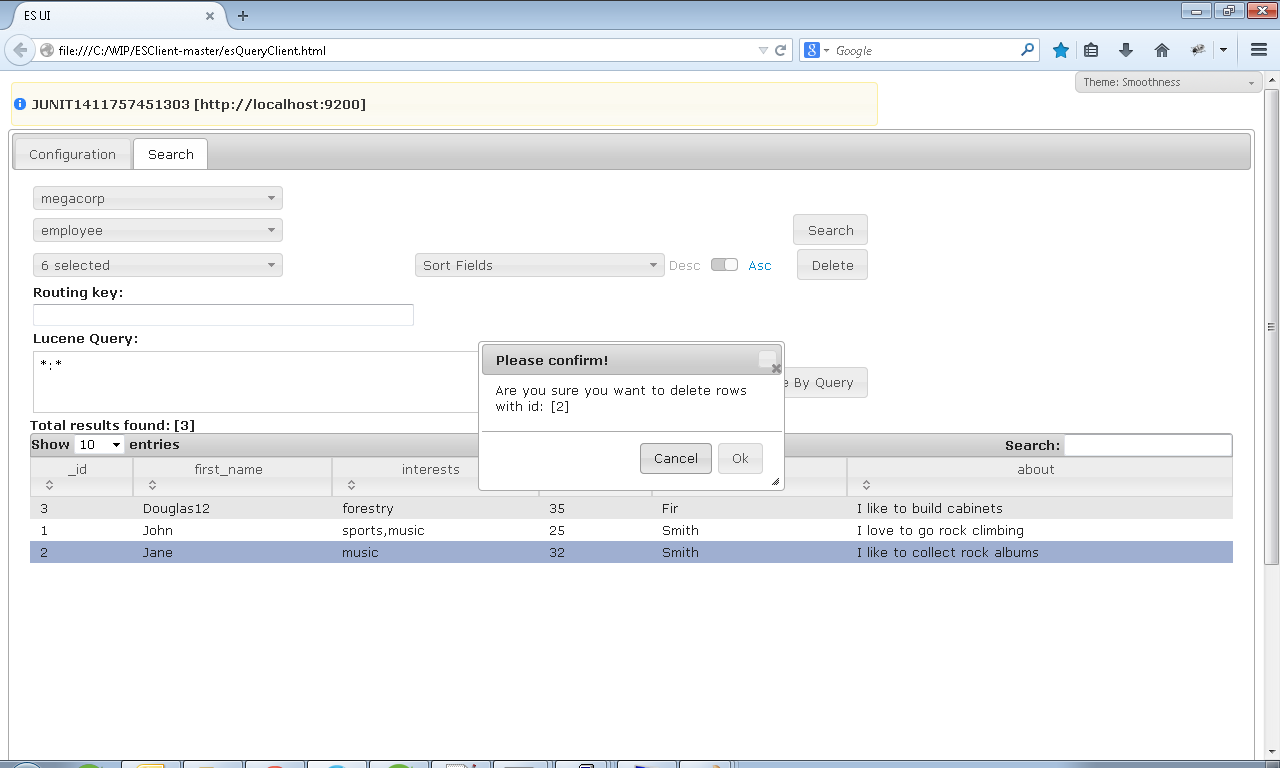
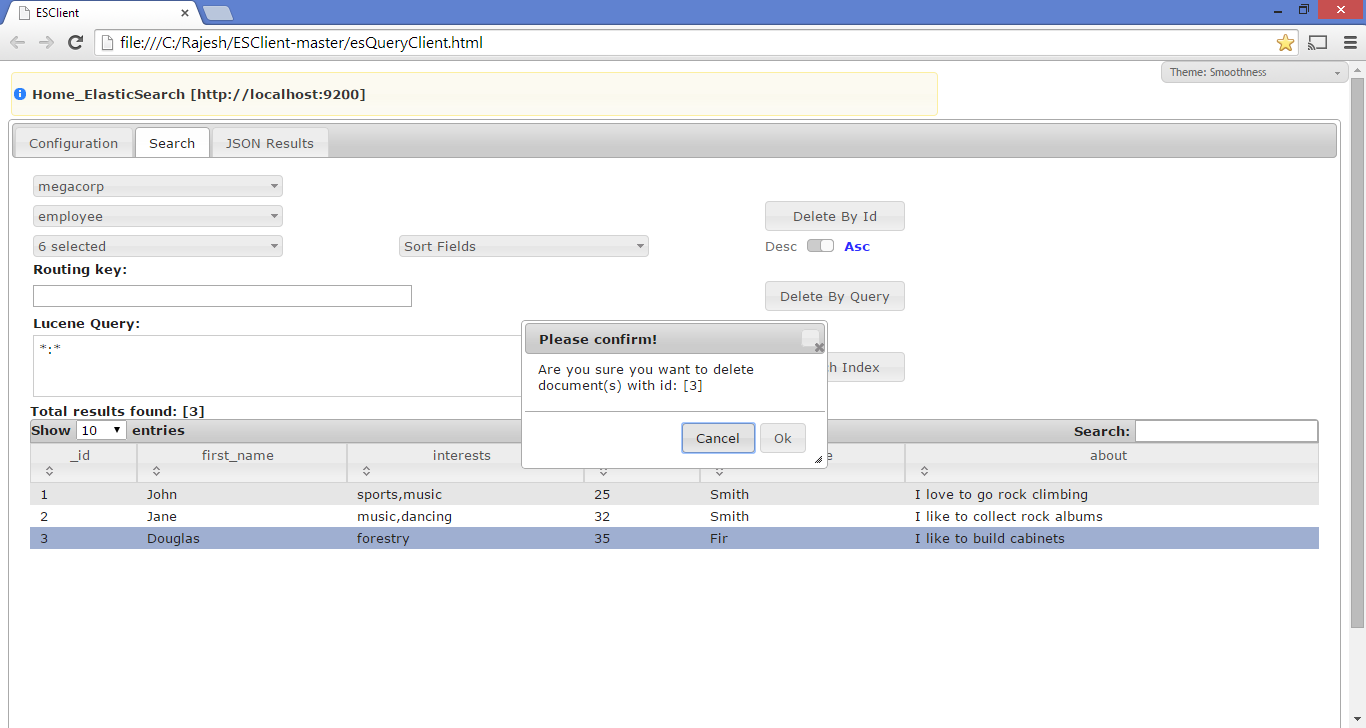
Auto complete

diff --git a/esQueryClient.html b/esQueryClient.html
@@ -2,7 +2,7 @@
 <html lang="en">
 <head>
 <meta charset="utf-8">
-<title>ES UI</title>
+<title>ESClient</title>
 
 		<script src="./media/js/jquery.min.js"></script>
 		<script src="./media/js/jquery-ui.min.js"></script>
